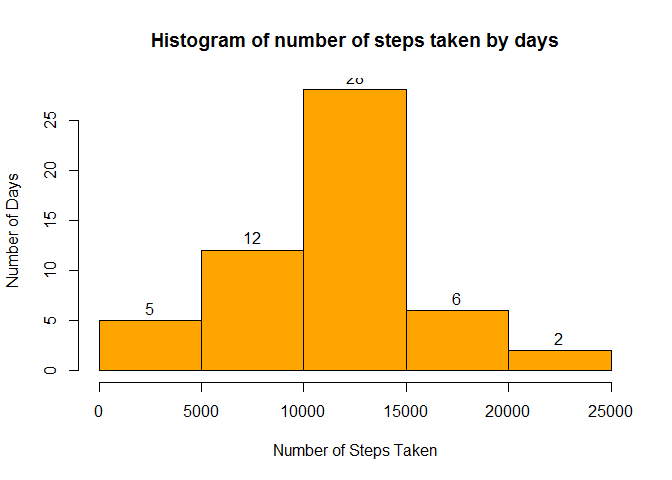
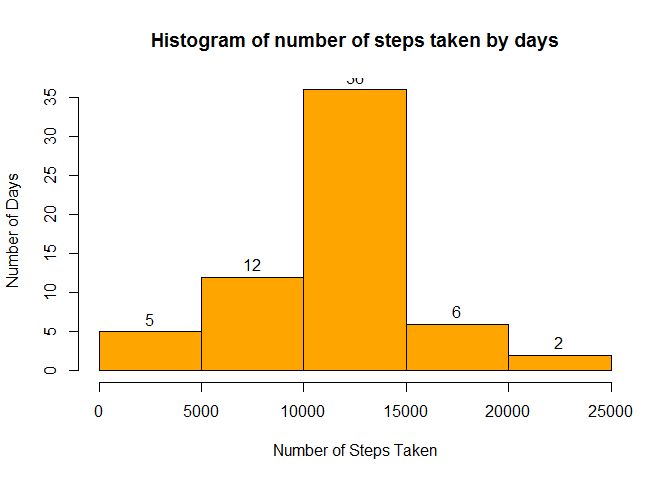
almost final

diff --git a/PA1_template.html b/PA1_template.html
@@ -65,18 +65,9 @@ img {
 
 
 <p>Before starting we have to load some libraries neccessary for next work. Also, we set a name of directory, in which our dataset is.</p>
-<pre class="r"><code>library(dplyr)</code></pre>
-<pre><code>## 
-## Attaching package: 'dplyr'
-## 
-## The following object is masked from 'package:stats':
-## 
-##     filter
-## 
-## The following objects are masked from 'package:base':
-## 
-##     intersect, setdiff, setequal, union</code></pre>
-<pre class="r"><code>library(lattice)
+<pre class="r"><code>library(dplyr, quietly=TRUE, warn.conflicts=FALSE)
+library(lattice, quietly=TRUE)
+library(knitr)
 filename &lt;- &quot;activity.zip&quot;</code></pre>
 <div id="loading-and-preprocessing-the-data" class="section level2">
 <h2>Loading and preprocessing the data</h2>
@@ -86,6 +77,7 @@ filename &lt;- &quot;activity.zip&quot;</code></pre>
 
 data &lt;- tbl_df(data)
 
+# we save datasets twice - with NAs &amp; without NAs
 with.NAs &lt;- data
 without.NAs &lt;- filter(data,
                       !is.na(steps))</code></pre>
@@ -112,9 +104,9 @@ hist(data.1$steps.by.days,
      labels=TRUE,
      col=&quot;orange&quot;)</code></pre>
[1 lines of base64/hex data omitted]
-<pre class="r"><code>data1.mean &lt;- mean(data.1$steps.by.days)
-data1.median &lt;- median(data.1$steps.by.days)</code></pre>
-<p>Mean total number of steps taken per day is 1.076618910^{4}, while the median has value of 1.076510^{4}.</p>
+<pre class="r"><code>data1.mean &lt;- sprintf(&quot;%.2f&quot;, mean(data.1$steps.by.days))
+data1.median &lt;- sprintf(&quot;%.2f&quot;, median(data.1$steps.by.days))</code></pre>
+<p><strong>Mean</strong> total number of steps taken per day is <strong>10766.19</strong>, while the <strong>median</strong> has value of <strong>10765.00</strong>.</p>
 </div>
 <div id="what-is-the-average-daily-activity-pattern" class="section level2">
 <h2>What is the average daily activity pattern?</h2>
@@ -143,61 +135,52 @@ data.2 &lt;- ungroup(data.2)
 # now we can find needed interval
 maximum.number.of.steps &lt;- filter(data.2,
                                   average.steps.by.intervals==max(average.steps.by.intervals))$interval</code></pre>
-<p>Interval <strong>835</strong> contains the maximum number of steps, on average across all the days in the dataset.</p>
+<p>Interval <strong>835</strong> contains the <strong>maximum number of steps</strong>, on average across all the days in the dataset.</p>
 </div>
 <div id="imputing-missing-values" class="section level2">
 <h2>Imputing missing values</h2>
 <pre class="r"><code>sum.of.NAs &lt;- sum(is.na(with.NAs))</code></pre>
-<p>The total number of missing values in the dataset (i.e. the total number of rows with <code>NA</code>s) is <strong>2304</strong>.</p>
+<p>The total <strong>number of missing values</strong> in the dataset (i.e. the total number of rows with <code>NA</code>s) is <strong>2304</strong>.</p>
 <p>In the next code chunk we firstly group data by inervals (including rows with <code>NA</code>s). That is made because we are going to replace all <code>NA</code>s with mean number of steps taken in each interval.</p>
 <pre class="r"><code>data.3 &lt;- group_by(with.NAs, interval)</code></pre>
 <p>So after grouping the data is done, we add a variable called inerval.mean, which contains mean number of steps taken for each interval separately.</p>
 <pre class="r"><code>data.3 &lt;- mutate(data.3, interval.mean=mean(steps, na.rm=TRUE))</code></pre>
-<p>The last step is done with ease of <code>ifelse</code> statement, which allows us to simply replace <code>NA</code>s with mean number of steps for current interval, or to let there original number of steps.</p>
+<p>The last step is done with an ease of <code>ifelse</code> statement, which allows us to simply replace <code>NA</code>s with mean number of steps for current interval, or to let there original number of steps.</p>
 <pre class="r"><code>data.3 &lt;- mutate(data.3, steps=ifelse(is.na(steps), interval.mean, steps))
 data.3 &lt;- select(data.3, steps, date, interval)
-data.3</code></pre>
-<pre><code>## Source: local data frame [17,568 x 3]
-## Groups: interval
-## 
-##        steps       date interval
-## 1  1.7169811 2012-10-01        0
-## 2  0.3396226 2012-10-01        5
-## 3  0.1320755 2012-10-01       10
-## 4  0.1509434 2012-10-01       15
-## 5  0.0754717 2012-10-01       20
-## 6  2.0943396 2012-10-01       25
-## 7  0.5283019 2012-10-01       30
-## 8  0.8679245 2012-10-01       35
-## 9  0.0000000 2012-10-01       40
-## 10 1.4716981 2012-10-01       45
-## ..       ...        ...      ...</code></pre>
-<pre class="r"><code># data.3 &lt;- ungroup(data.3)
-# 
-# data.3 &lt;- group_by(data.3,
-#                    date)
-# 
-# data.3 &lt;- mutate(data.3,
-#                  steps.by.days=sum(new.steps))
-# 
-# data.3 &lt;- distinct(data.3,
-#                    date)
-# 
-# hist(data.3$steps.by.days,
-#      xlab=&quot;Number of Steps Taken&quot;,
-#      ylab=&quot;Number of Days&quot;,
-#      main=&quot;Histogram of number of steps taken by days&quot;,
-#      labels=TRUE,
-#      col=&quot;orange&quot;)
-# 
-# data3.mean &lt;- mean(data.3$steps.by.days)
-# data3.median &lt;- median(data.3$steps.by.days)Mean total number of steps taken per day with `NA`s replaced is `r data3.mean`, while the median has value of `r data3.median`.</code></pre>
+
+# this is just for saving our time - we store the modified dataset for next task
+data.4 &lt;- data.3</code></pre>
+<p>The last chunk of the code is for drawing a histogram, similarly as in the first task of this assignment.</p>
+<pre class="r"><code>data.3 &lt;- ungroup(data.3)
+
+data.3 &lt;- group_by(data.3,
+                   date)
+
+data.3 &lt;- mutate(data.3,
+                 steps.by.days=sum(steps))
+
+data.3 &lt;- distinct(data.3,
+                   date)
+
+hist(data.3$steps.by.days,
+     xlab=&quot;Number of Steps Taken&quot;,
+     ylab=&quot;Number of Days&quot;,
+     main=&quot;Histogram of number of steps taken by days&quot;,
+     labels=TRUE,
+     col=&quot;orange&quot;)</code></pre>
[1 lines of base64/hex data omitted]
+<pre class="r"><code>data3.mean &lt;- sprintf(&quot;%.2f&quot;, mean(data.3$steps.by.days))
+data3.median &lt;- sprintf(&quot;%.2f&quot;, median(data.3$steps.by.days))</code></pre>
+<p><strong>Mean</strong> total number of steps taken per day with <code>NA</code>s replaced is <strong>10766.19</strong>, while the <strong>median</strong> has value of <strong>10766.19</strong>. <strong>Sem treba dat este vetu, ze ako sa hodnoty zmenili oproti tomu, ked sme s NA hodnotami neratali!!!!!!!!!!!!!!!!!!!!!!!!</strong></p>
 </div>
 <div id="are-there-differences-in-activity-patterns-between-weekdays-and-weekends" class="section level2">
 <h2>Are there differences in activity patterns between weekdays and weekends?</h2>
 <p>In this part we have got one restriction, which is to use the dataset made few steps before, where all <code>NA</code>s were replaced.</p>
-<pre class="r"><code># we simply add a variable containing type of the current day
-data.4 &lt;- mutate(without.NAs,
+<pre class="r"><code>data.4 &lt;- ungroup(data.4)
+
+# we simply add a variable containing type of the current day
+data.4 &lt;- mutate(data.4,
                  day.type=ifelse(weekdays(date) %in% c('sobota','nedela'),'weekend','weekday'))
 
 # we must group data by intervals and by date.type simultaneously
@@ -208,11 +191,9 @@ data.4 &lt;- group_by(data.4,
 data.4 &lt;- mutate(data.4,
                  average.steps.by.day.type=sum(steps)/n())
 
-
 data.4 &lt;- distinct(data.4,
                    interval,
                    day.type)
-
 
 xyplot(average.steps.by.day.type ~ interval | day.type,
        data=data.4,
@@ -220,15 +201,7 @@ xyplot(average.steps.by.day.type ~ interval | day.type,
        ylab=&quot;Average Number of Steps Taken&quot;,
        layout=c(1,2),
        type=&quot;l&quot;)</code></pre>
[1 lines of base64/hex data omitted]
-<pre class="r"><code>data.4 &lt;- ungroup(data.4)
-
-filter(data.4,
-       average.steps.by.day.type==max(average.steps.by.day.type))</code></pre>
-<pre><code>## Source: local data frame [1 x 5]
-## 
-##   steps       date interval day.type average.steps.by.day.type
-## 1   173 2012-10-06      915  weekend                  276.1429</code></pre>
[1 lines of base64/hex data omitted]
 </div>
 
 

diff --git a/PA1_template.md b/PA1_template.md
@@ -3,24 +3,9 @@
 Before starting we have to load some libraries neccessary for next work. Also, we set a name of directory, in which our dataset is.
 
 ```r
-library(dplyr)
-```
-
-```
-## 
-## Attaching package: 'dplyr'
-## 
-## The following object is masked from 'package:stats':
-## 
-##     filter
-## 
-## The following objects are masked from 'package:base':
-## 
-##     intersect, setdiff, setequal, union
-```
-
-```r
-library(lattice)
+library(dplyr, quietly=TRUE, warn.conflicts=FALSE)
+library(lattice, quietly=TRUE)
+library(knitr)
 filename <- "activity.zip"
 ```
 
@@ -34,6 +19,7 @@ data <- read.csv(unz(filename, "activity.csv"),
 
 data <- tbl_df(data)
 
+# we save datasets twice - with NAs & without NAs
 with.NAs <- data
 without.NAs <- filter(data,
                       !is.na(steps))
@@ -67,10 +53,10 @@ hist(data.1$steps.by.days,
 ![](PA1_template_files/figure-html/meanMedianAndHistogram-1.png) 
 
 ```r
-data1.mean <- mean(data.1$steps.by.days)
-data1.median <- median(data.1$steps.by.days)
+data1.mean <- sprintf("%.2f", mean(data.1$steps.by.days))
+data1.median <- sprintf("%.2f", median(data.1$steps.by.days))
 ```
-Mean total number of steps taken per day is 1.0766189\times 10^{4}, while the median has value of 1.0765\times 10^{4}.
+**Mean** total number of steps taken per day is **10766.19**, while the **median** has value of **10765.00**.
 
 
 ## What is the average daily activity pattern?
@@ -106,7 +92,7 @@ data.2 <- ungroup(data.2)
 maximum.number.of.steps <- filter(data.2,
                                   average.steps.by.intervals==max(average.steps.by.intervals))$interval
 ```
-Interval **835** contains the maximum number of steps, on average across all the days in the dataset.
+Interval **835** contains the **maximum number of steps**, on average across all the days in the dataset.
 
 
 ## Imputing missing values
@@ -114,7 +100,7 @@ Interval **835** contains the maximum number of steps, on average across all the
 ```r
 sum.of.NAs <- sum(is.na(with.NAs))
 ```
-The total number of missing values in the dataset (i.e. the total number of rows with `NA`s) is **2304**.
+The total **number of missing values** in the dataset (i.e. the total number of rows with `NA`s) is **2304**.
 
 In the next code chunk we firstly group data by inervals (including rows with `NA`s). That is made because we are going to replace all `NA`s with mean number of steps taken in each interval.
 
@@ -128,65 +114,55 @@ So after grouping the data is done, we add a variable called inerval.mean, which
 data.3 <- mutate(data.3, interval.mean=mean(steps, na.rm=TRUE))
 ```
 
-The last step is done with ease of `ifelse` statement, which allows us to simply replace `NA`s with mean number of steps for current interval, or to let there original number of steps.
+The last step is done with an ease of `ifelse` statement, which allows us to simply replace `NA`s with mean number of steps for current interval, or to let there original number of steps.
 
 ```r
 data.3 <- mutate(data.3, steps=ifelse(is.na(steps), interval.mean, steps))
 data.3 <- select(data.3, steps, date, interval)
-data.3
+
+# this is just for saving our time - we store the modified dataset for next task
+data.4 <- data.3
 ```
 
-```
-## Source: local data frame [17,568 x 3]
-## Groups: interval
-## 
-##        steps       date interval
-## 1  1.7169811 2012-10-01        0
-## 2  0.3396226 2012-10-01        5
-## 3  0.1320755 2012-10-01       10
-## 4  0.1509434 2012-10-01       15
-## 5  0.0754717 2012-10-01       20
-## 6  2.0943396 2012-10-01       25
-## 7  0.5283019 2012-10-01       30
-## 8  0.8679245 2012-10-01       35
-## 9  0.0000000 2012-10-01       40
-## 10 1.4716981 2012-10-01       45
-## ..       ...        ...      ...
-```
-
-
+The last chunk of the code is for drawing a histogram, similarly as in the first task of this assignment.
 
 ```r
-# data.3 <- ungroup(data.3)
-# 
-# data.3 <- group_by(data.3,
-#                    date)
-# 
-# data.3 <- mutate(data.3,
-#                  steps.by.days=sum(new.steps))
-# 
-# data.3 <- distinct(data.3,
-#                    date)
-# 
-# hist(data.3$steps.by.days,
-#      xlab="Number of Steps Taken",
-#      ylab="Number of Days",
-#      main="Histogram of number of steps taken by days",
-#      labels=TRUE,
-#      col="orange")
-# 
-# data3.mean <- mean(data.3$steps.by.days)
-# data3.median <- median(data.3$steps.by.days)Mean total number of steps taken per day with `NA`s replaced is `r data3.mean`, while the median has value of `r data3.median`.
+data.3 <- ungroup(data.3)
+
+data.3 <- group_by(data.3,
+                   date)
+
+data.3 <- mutate(data.3,
+                 steps.by.days=sum(steps))
+
+data.3 <- distinct(data.3,
+                   date)
+
+hist(data.3$steps.by.days,
+     xlab="Number of Steps Taken",
+     ylab="Number of Days",
+     main="Histogram of number of steps taken by days",
+     labels=TRUE,
+     col="orange")
 ```
 
+![](PA1_template_files/figure-html/unnamed-chunk-4-1.png) 
+
+```r
+data3.mean <- sprintf("%.2f", mean(data.3$steps.by.days))
+data3.median <- sprintf("%.2f", median(data.3$steps.by.days))
+```
+**Mean** total number of steps taken per day with `NA`s replaced is **10766.19**, while the **median** has value of **10766.19**. **Sem treba dat este vetu, ze ako sa hodnoty zmenili oproti tomu, ked sme s NA hodnotami neratali!!!!!!!!!!!!!!!!!!!!!!!!**
 
 
 ## Are there differences in activity patterns between weekdays and weekends?
 In this part we have got one restriction, which is to use the dataset made few steps before, where all `NA`s were replaced.
 
 ```r
+data.4 <- ungroup(data.4)
+
 # we simply add a variable containing type of the current day
-data.4 <- mutate(without.NAs,
+data.4 <- mutate(data.4,
                  day.type=ifelse(weekdays(date) %in% c('sobota','nedela'),'weekend','weekday'))
 
 # we must group data by intervals and by date.type simultaneously
@@ -197,11 +173,9 @@ data.4 <- group_by(data.4,
 data.4 <- mutate(data.4,
                  average.steps.by.day.type=sum(steps)/n())
 
-
 data.4 <- distinct(data.4,
                    interval,
                    day.type)
-
 
 xyplot(average.steps.by.day.type ~ interval | day.type,
        data=data.4,
@@ -212,17 +186,3 @@ xyplot(average.steps.by.day.type ~ interval | day.type,
 ```
 
 ![](PA1_template_files/figure-html/unnamed-chunk-5-1.png) 
-
-```r
-data.4 <- ungroup(data.4)
-
-filter(data.4,
-       average.steps.by.day.type==max(average.steps.by.day.type))
-```
-
-```
-## Source: local data frame [1 x 5]
-## 
-##   steps       date interval day.type average.steps.by.day.type
-## 1   173 2012-10-06      915  weekend                  276.1429
-```
